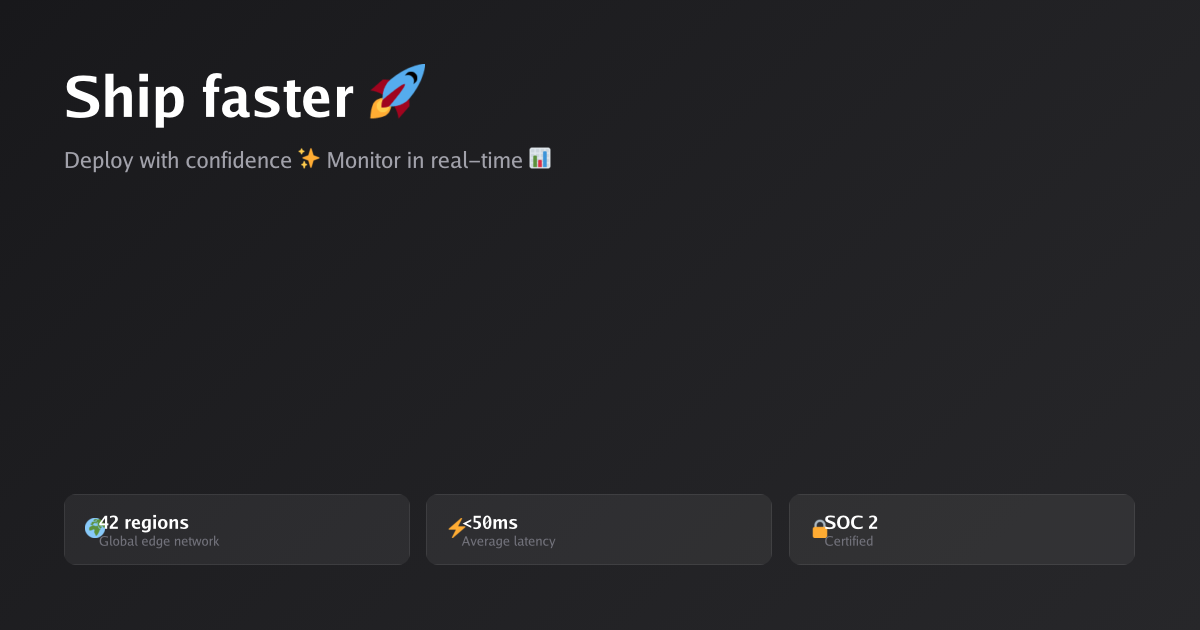
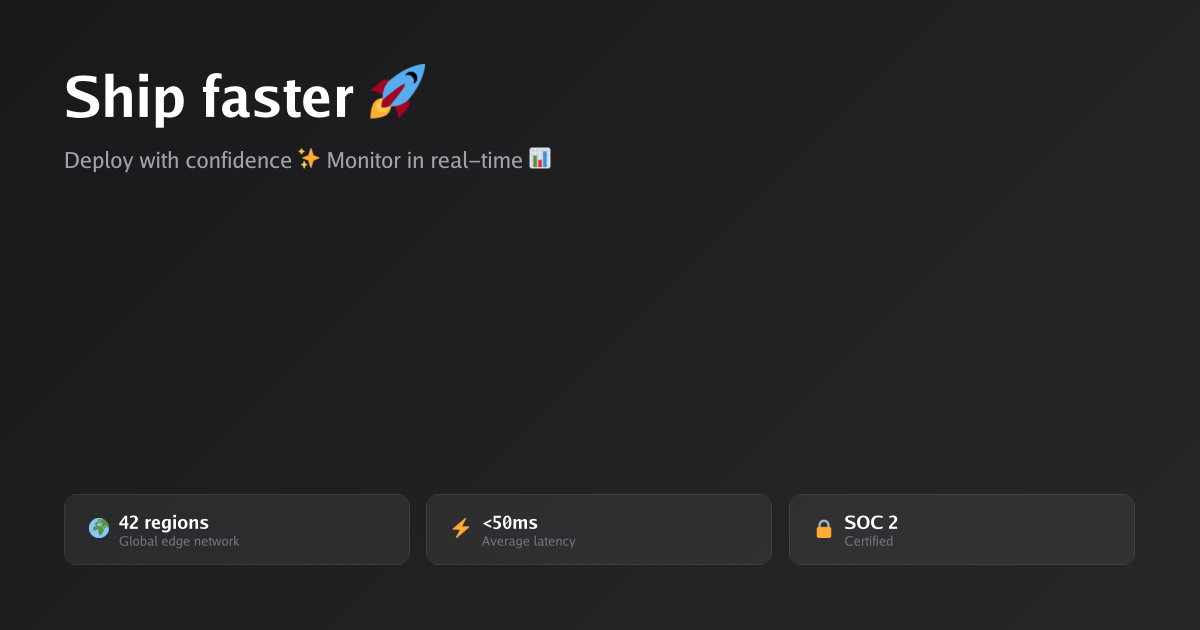
fix: increase emoji-to-text spacing in ship faster cards

Changed region(s): [[0.0617, 0.8143, 0.185, 0.8746], [0.37, 0.8143, 0.4625, 0.8746], [0.6783, 0.8143, 0.7708, 0.8746]]

diff --git a/site/src/data/templates.ts b/site/src/data/templates.ts
@@ -149,21 +149,21 @@ export const templates = {
     <div style="color:#a1a1aa;font-size:22px;margin-top:8px;line-height:1.5">Deploy with confidence ✨ Monitor in real-time 📊</div>
   </div>
   <div style="display:flex;gap:16px">
-    <div style="display:flex;flex:1;align-items:center;gap:14px;background-color:rgba(255,255,255,0.06);padding:16px 20px;border-radius:12px;border:1px solid rgba(255,255,255,0.08)">
+    <div style="display:flex;flex:1;align-items:center;gap:30px;background-color:rgba(255,255,255,0.06);padding:16px 24px;border-radius:12px;border:1px solid rgba(255,255,255,0.08)">
       <div style="font-size:20px">🌍</div>
       <div style="display:flex;flex-direction:column">
         <div style="color:white;font-size:18px;font-weight:700">42 regions</div>
         <div style="color:#71717a;font-size:13px">Global edge network</div>
       </div>
     </div>
-    <div style="display:flex;flex:1;align-items:center;gap:14px;background-color:rgba(255,255,255,0.06);padding:16px 20px;border-radius:12px;border:1px solid rgba(255,255,255,0.08)">
+    <div style="display:flex;flex:1;align-items:center;gap:30px;background-color:rgba(255,255,255,0.06);padding:16px 24px;border-radius:12px;border:1px solid rgba(255,255,255,0.08)">
       <div style="font-size:20px">⚡</div>
       <div style="display:flex;flex-direction:column">
         <div style="color:white;font-size:18px;font-weight:700">&lt;50ms</div>
         <div style="color:#71717a;font-size:13px">Average latency</div>
       </div>
     </div>
-    <div style="display:flex;flex:1;align-items:center;gap:14px;background-color:rgba(255,255,255,0.06);padding:16px 20px;border-radius:12px;border:1px solid rgba(255,255,255,0.08)">
+    <div style="display:flex;flex:1;align-items:center;gap:30px;background-color:rgba(255,255,255,0.06);padding:16px 24px;border-radius:12px;border:1px solid rgba(255,255,255,0.08)">
       <div style="font-size:20px">🔒</div>
       <div style="display:flex;flex-direction:column">
         <div style="color:white;font-size:18px;font-weight:700">SOC 2</div>
